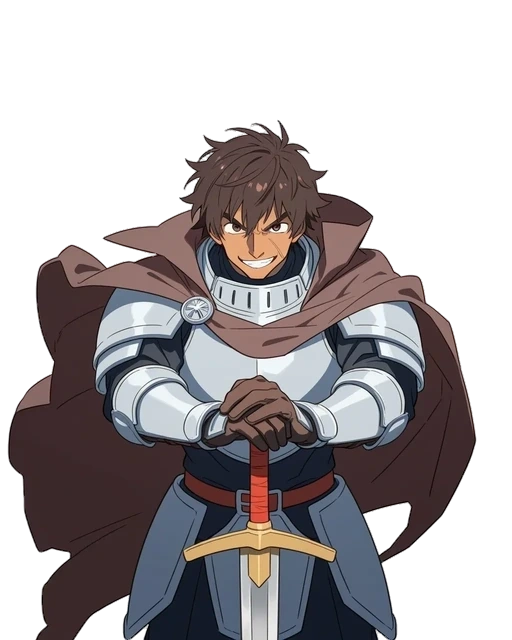
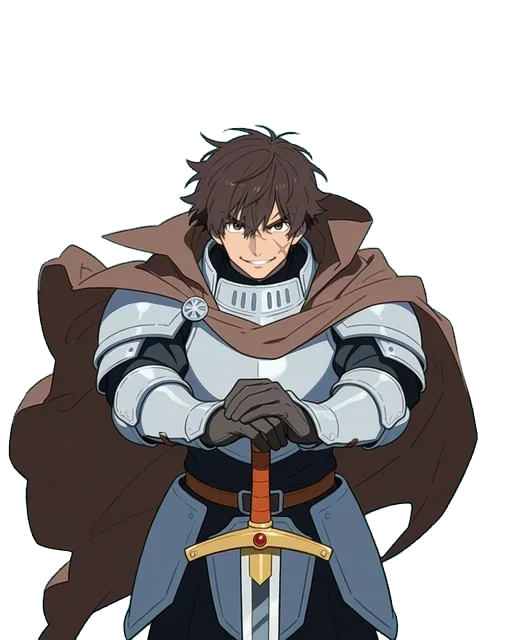
greol 楽・farina 哀を作り直す：基本の絵の顔の楕円だけを inpaint で描き直し、顔だけを基本に重ねる（髪の外形・服・傷は基本のまま）
Claude-Session: https://claude.ai/code/session_011Kp4AbAXdzXbnvYnjXXoLh

diff --git a/docs/art/orig_fix/faceinp.py b/docs/art/orig_fix/faceinp.py
@@ -1,0 +1,39 @@
+# 顔だけの描き直し：基本の絵（透明つき）を白い地に置いて 2 倍にし、顔の楕円だけ inpaint（only masked）で表情を描き直す。
+# 結果は顔の楕円だけを基本の絵に重ねる（透明・髪の外形・服は基本のまま）
+# 使い方：python faceinp.py <id> <基本.webp> <出す所の頭> cx,cy,rx,ry(512×640 の座標) "<表情のタグ>" den seed[,seed...] ["<外すタグ>"] ["<ネガティブに足す>"]
+import base64, io, json, sys, urllib.request
+import numpy as np
+from PIL import Image
+i, basef, outp, ell, expr, den, seeds = sys.argv[1:8]
+drop = [w.strip() for w in sys.argv[8].split(",")] if len(sys.argv) > 8 and sys.argv[8] else []
+negx = sys.argv[9] if len(sys.argv) > 9 else ""
+cx, cy, rx, ry = [float(v) for v in ell.split(",")]
+rec = json.load(open(f"H:/game/trpg-gen/docs/art/gen/{i}.json", encoding="utf-8"))
+pos = rec["prompt"]
+for w in drop: pos = pos.replace(w + ", ", "").replace(", " + w, "")
+pos = pos + ", " + expr
+neg = rec["negative_prompt"] + (", " + negx if negx else "")
+b = Image.open(basef).convert("RGBA"); W, H = b.size
+wb = Image.new("RGBA", b.size, (255, 255, 255, 255)); wb.alpha_composite(b)
+big = wb.convert("RGB").resize((W * 2, H * 2), Image.LANCZOS)
+yy, xx = np.mgrid[:H * 2, :W * 2]
+e = np.sqrt(((xx - 2 * cx) / (2 * rx)) ** 2 + ((yy - 2 * cy) / (2 * ry)) ** 2)
+mask = Image.fromarray(((e < 1) * 255).astype(np.uint8))
+enc = lambda im: (lambda bio: (im.save(bio, "PNG"), base64.b64encode(bio.getvalue()).decode())[1])(io.BytesIO())
+ba = np.array(b).astype(np.float32)
+for sd in [int(s) for s in seeds.split(",")]:
+    body = {"prompt": pos, "negative_prompt": neg, "seed": sd, "steps": 24, "cfg_scale": 5.5, "sampler_name": "Euler a", "scheduler": "Automatic",
+            "width": W * 2, "height": H * 2, "init_images": [enc(big)], "mask": enc(mask), "denoising_strength": float(den), "inpainting_fill": 1,
+            "inpaint_full_res": True, "inpaint_full_res_padding": 64, "mask_blur": 6, "resize_mode": 0,
+            "override_settings": {"sd_model_checkpoint": "waiIllustriousSDXL_v140.safetensors [bdb59bac77]"}, "override_settings_restore_afterwards": True}
+    r = json.loads(urllib.request.urlopen(urllib.request.Request("http://127.0.0.1:7860/sdapi/v1/img2img", json.dumps(body).encode(), {"Content-Type": "application/json"}), timeout=1200).read())
+    g = Image.open(io.BytesIO(base64.b64decode(r["images"][0]))).convert("RGB").resize((W, H), Image.LANCZOS)
+    ga = np.array(g).astype(np.float32)
+    yy1, xx1 = np.mgrid[:H, :W]
+    e1 = np.sqrt(((xx1 - cx) / rx) ** 2 + ((yy1 - cy) / ry) ** 2)
+    m = (np.clip((1 - e1) * min(rx, ry) / 4, 0, 1) * (ba[..., 3] > 250))[..., None]
+    o = ba.copy(); o[..., :3] = ba[..., :3] * (1 - m) + ga * m
+    Image.fromarray(o.round().astype(np.uint8), "RGBA").save(f"{outp}_{sd}.webp", "WEBP", quality=92, alpha_quality=100, method=6)
+    body.pop("init_images"); body.pop("mask"); body["init_image"] = basef; body["mask_ellipse_512"] = [cx, cy, rx, ry]
+    json.dump(body, open(f"{outp}_{sd}.json", "w", encoding="utf-8"), ensure_ascii=False, indent=1)
+    print(outp, sd, flush=True)
